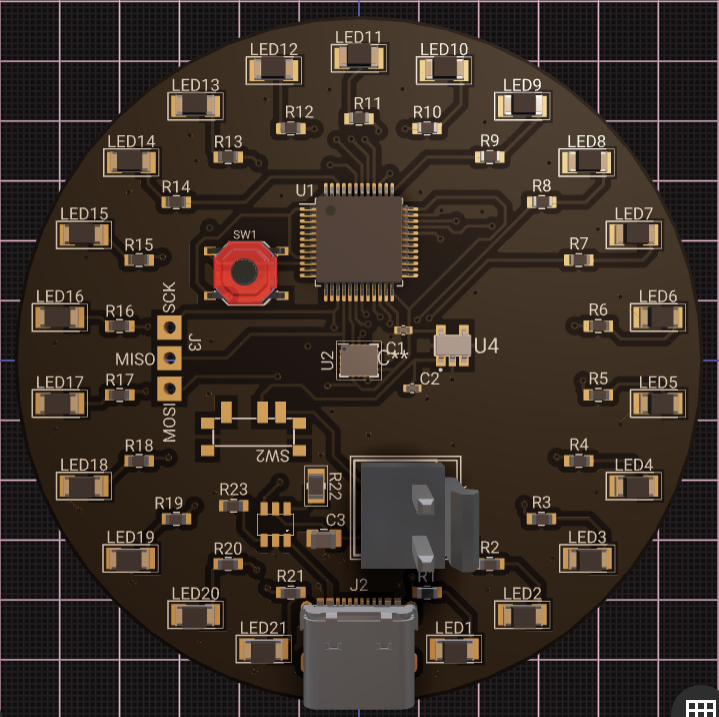
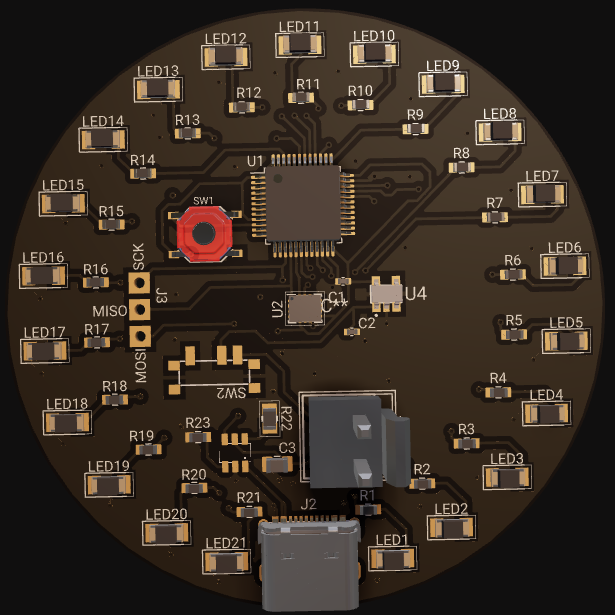
Better Looking Pictures and Better Formatting

diff --git a/index.html b/index.html
@@ -14,7 +14,12 @@
     </font>
 </p>
 <hr noshade size="4" color="#DEE4E1" width="95%" align="center"/>
-
-<img src="docs/assets/LED Ring Corner 3D.png" height="257" width="401" alt="LED Ring Corner" />
+<p>
+    <font size="3" color="white">
+        LED Ring Circuit Board
+    </font>
+</p>
+<img src="docs/assets/LED Ring Corner 3D.png" height="225" width="315" alt="LED Ring Corner" />
+<img src="docs/assets/LED Ring Front 2D.png" height="325" width="325" alt="LED Ring Front 2D Layout" />
 </body>
 </html>
